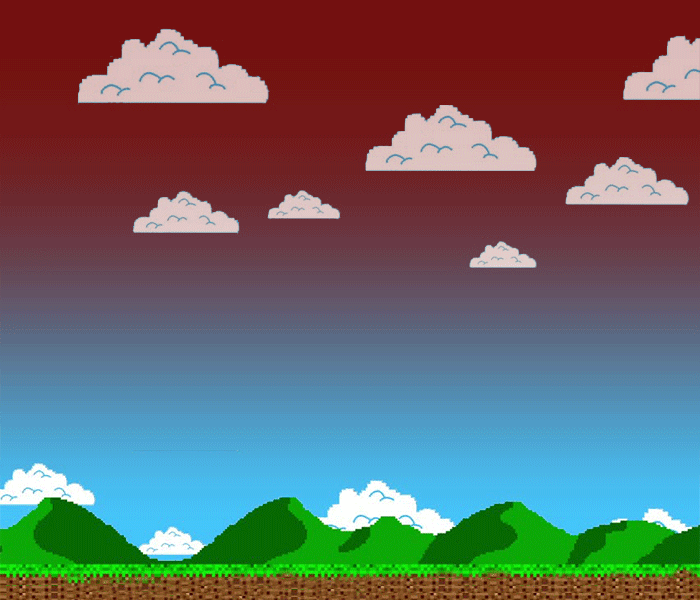
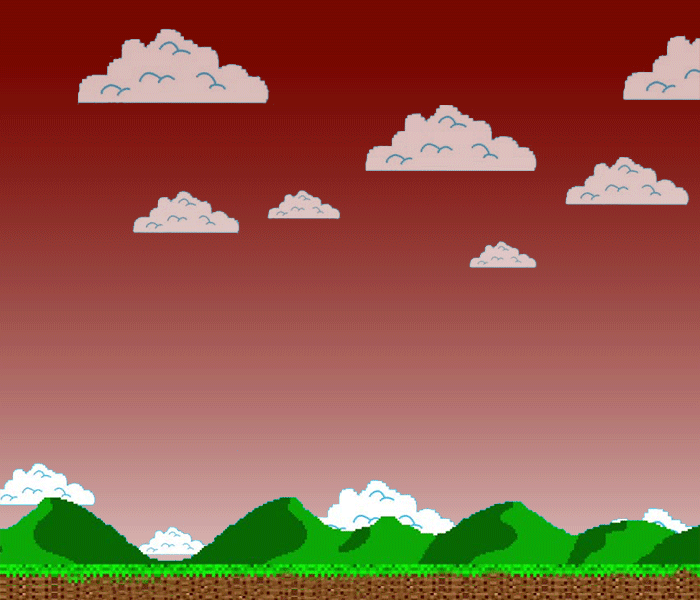
Modified game state

diff --git a/src/app/terminal/game/game.component.ts b/src/app/terminal/game/game.component.ts
@@ -1,6 +1,8 @@
 
-import { Component, AfterViewInit, ElementRef, ViewChild, Output, EventEmitter } from '@angular/core';
+import { Component, AfterViewInit, ElementRef, ViewChild, Output, EventEmitter, OnDestroy } from '@angular/core';
 import { CommunicateService} from '../../services/communicate.service';
+import { AppState } from '../../classes/app-state.enum';
+import { Subscription } from 'rxjs/subscription'
 
 declare var webkitAudioContext: any;
 
@@ -234,7 +236,7 @@ export class PlayState {
           //  this rocket again.
           this.rockets.splice(j--, 1);
           bang = true;
-          game.score += this.config.pointsPerInvader;
+          game.score += (this.config.pointsPerInvader + (this.level - 1));
           game.crowsKilled += 1;
           break;
         }
@@ -346,14 +348,20 @@ export class PlayState {
 
     //  Draw info.
     var textYpos = game.gameBounds.bottom + ((game.height - game.gameBounds.bottom) / 2) + 14 / 2;
+    var livesYpos = game.gameBounds.top - 10;
     ctx.font = "14px 'Andale Mono', Consolas, 'Courier New'";
-    ctx.fillStyle = '#f0f0f0';
-    var info = "Lives: " + game.lives;
+    ctx.fillStyle = '#0a0a0a';
+
+    var info = "Lives: ";
     ctx.textAlign = "left";
-    ctx.fillText(info, game.gameBounds.left, textYpos);
-    info = "Score: " + game.score + ", Level: " + game.level;
+    ctx.fillText(info, game.gameBounds.right - 40 - (game.lives * 25), 22);
+    for(var i = 0; i < game.lives; i++){
+      ctx.drawImage(shooterImg, game.gameBounds.right - (i * 25), 10, 25, 25);
+    }
+
+    info = "Score: " + game.score + ", Horde #: " + game.level;
     ctx.textAlign = "right";
-    ctx.fillText(info, game.gameBounds.right, textYpos);
+    ctx.fillText(info, (game.width / 2) + 90, 22);
 
     //  If we're in debug mode, draw bounds.
     if (this.config.debugMode) {
@@ -412,17 +420,19 @@ export class WelcomeState {
 
   draw(game, dt, ctx) {
 
-    //  Clear the background.
-    ctx.clearRect(0, 0, game.width, game.height);
 
     ctx.font = "30px 'Andale Mono', Consolas, 'Courier New'";
-    ctx.fillStyle = '#f0f0f0';
+    ctx.fillStyle = '#0a0a0a';
     ctx.textBaseline = "center";
     ctx.textAlign = "center";
     ctx.fillText("Crow Invaders", game.width / 2, game.height / 2 - 40);
     ctx.font = "16px 'Andale Mono', Consolas, 'Courier New'";
 
-    ctx.fillText("Press 'Space' to start.", game.width / 2, game.height / 2);
+    ctx.fillText("Move with arrow keys, fire with the space bar.", game.width / 2, game.height / 2)
+    ctx.fillText("The crows get faster and drop more eggs as you clear each horde!", game.width / 2, game.height / 2 + 25);
+  
+ 
+    ctx.fillText("Press 'Space' to start.", game.width / 2, game.height / 2  + 80);
   }
   keyDown(game, keyCode) {
     if (keyCode == 32) /*space*/ {
@@ -470,10 +480,10 @@ export class LevelIntroState {
     ctx.clearRect(0, 0, game.width, game.height);
 
     ctx.font = "32px 'Andale Mono', Consolas, 'Courier New'";
-    ctx.fillStyle = '#f0f0f0';
+    ctx.fillStyle = '#0a0a0a';
     ctx.textBaseline = "middle";
     ctx.textAlign = "center";
-    ctx.fillText("Level " + this.level, game.width / 2, game.height / 2 - 36);
+    ctx.fillText("Horde " + this.level, game.width / 2, game.height / 2 - 36);
     ctx.font = "24px 'Andale Mono', Consolas, 'Courier New'";
     ctx.fillText("Ready in " + this.countdownMessage, game.width / 2, game.height / 2);
     return;
@@ -492,7 +502,7 @@ export class GameOverState {
     ctx.clearRect(0, 0, game.width, game.height);
 
     ctx.font = "30px 'Andale Mono', Consolas, 'Courier New'";
-    ctx.fillStyle = '#f0f0f0';
+    ctx.fillStyle = '#0a0a0a';
     ctx.textBaseline = "center";
     ctx.textAlign = "center";
     ctx.fillText("Game Over!", game.width / 2, game.height / 2 - 40);
@@ -528,7 +538,7 @@ export class PauseState {
     ctx.clearRect(0, 0, game.width, game.height);
 
     ctx.font = "14px 'Andale Mono', Consolas, 'Courier New'";
-    ctx.fillStyle = '#f0f0f0';
+    ctx.fillStyle = '#0a0a0a';
     ctx.textBaseline = "middle";
     ctx.textAlign = "center";
     ctx.fillText("Paused", game.width / 2, game.height / 2);
@@ -602,12 +612,13 @@ export class Sounds {
   templateUrl: './game.component.html',
   styleUrls: ['./game.component.css']
 })
-export class GameComponent implements AfterViewInit {
+export class GameComponent implements AfterViewInit, OnDestroy {
 
 
   instructions: "Move with arrow keys, fire with the space bar. The invaders get faster and drop more bombs as you complete each level!";
 
   @ViewChild('gameCanvas') canvas: ElementRef;
+  @ViewChild('backgroundCanvas') backgroundCanvas: ElementRef;
 
   @Output()
   finalScore: EventEmitter<number> = new EventEmitter<number>();
@@ -653,18 +664,41 @@ export class GameComponent implements AfterViewInit {
   //  All sounds.
   sounds = null;
 
-  constructor(private comService: CommunicateService){
+  stateSubscription: Subscription;
 
+  constructor(private comService: CommunicateService){
+    this.stateSubscription = this.comService.appState$.subscribe((state: AppState) => {
+      if(state != AppState.game){
+        this.moveToState(new GameOverState());
+      }
+    })
   }
 
   ngAfterViewInit(){
     this.startGame();
   }
 
+  ngOnDestroy(): void {
+    //Called once, before the instance is destroyed.
+    //Add 'implements OnDestroy' to the class.
+    this.stateSubscription.unsubscribe();
+  }
+
   startGame() {
 
     this.canvas.nativeElement.width = 700;
     this.canvas.nativeElement.height = 600;
+
+
+
+    // this.backgroundCanvas.nativeElement.width = 700;
+    // this.backgroundCanvas.nativeElement.height = 600;
+    // var ctx = this.backgroundCanvas.nativeElement.getContext("2d");
+    // //  Clear the background.
+    // ctx.clearRect(0, 0, 700, 600);
+    // var bgImg = new Image();
+    // bgImg.src = "assets/backdropTransparent.png";
+    // ctx.drawImage(bgImg, 0, 0, 700, 600);
 
     //  Create the game.
     // var game = new Game();
@@ -701,9 +735,13 @@ export class GameComponent implements AfterViewInit {
     //  Set the game canvas.
     this.gameCanvas = gameCanvas;
 
+    
+
     //  Set the game width and height.
     this.width = gameCanvas.width;
     this.height = gameCanvas.height;
+
+
 
     //  Set the state game bounds.
     this.gameBounds = {

diff --git a/src/app/terminal/terminal.component.ts b/src/app/terminal/terminal.component.ts
@@ -64,8 +64,8 @@ export class TerminalComponent implements AfterViewInit, OnDestroy {
   }
 
   async ngAfterViewInit() {
-    this.addOutput(this.welcomeMessage + this.getHelpMessage, true);
-    // this.addOutput('Hi', true);
+    // this.addOutput(this.welcomeMessage + this.getHelpMessage, true);
+    this.addOutput('Hi', true);
     this.web3Subscription = this.service.web3Status$.subscribe((status: Web3LoadingStatus) => {
       console.log("Terminal: Web3Status: " + status);
       if (status == Web3LoadingStatus.complete) {
@@ -103,7 +103,11 @@ export class TerminalComponent implements AfterViewInit, OnDestroy {
 
       this.addCommand(input);
       const output = await this.handleCommandAsync(input);
-      this.addOutput(output, output != null);
+      if(output == null){
+        this.addOutput('');
+      }else{
+        this.addOutput(output, true);
+      }
     }
   }
 
@@ -139,8 +143,10 @@ export class TerminalComponent implements AfterViewInit, OnDestroy {
           //   // }
           // } else {
             this.addOutput(this.loadingCrowsMessage);
-            this.shootingCrows = true;
-            this.comService.setState(AppState.game);
+            setTimeout(() => {
+              this.shootingCrows = true;
+              this.comService.setState(AppState.game);
+            }, 3000);
             output = null;
           // }
           break;

diff --git a/src/app/app.component.ts b/src/app/app.component.ts
@@ -19,6 +19,7 @@ export class AppComponent implements OnInit, OnDestroy {
 
   terminalOpen = false;
   bounceIn = false;
+  bounceInTerminal = false;
   terminalSubscription: Subscription;
 
   constructor(private comService: CommunicateService) {
@@ -38,6 +39,7 @@ export class AppComponent implements OnInit, OnDestroy {
       } else {
         if(this.terminalOpen){
           this.bounceIn = true;
+          this.bounceInTerminal = false;
           this.terminalOpen = false;
         }
       }
@@ -73,6 +75,9 @@ export class AppComponent implements OnInit, OnDestroy {
 
   openTerminal() {
     this.comService.setState(AppState.terminal);
+    setTimeout(() => {
+      this.bounceInTerminal = true;
+    }, 500);
     localStorage.setItem('hasOpened', 'true');
   }
 

diff --git a/src/app/terminal/game/game.component.css b/src/app/terminal/game/game.component.css
@@ -1,7 +1,24 @@
 #gameCanvas {
     /* background-color:rgba(0,0,0,0.8); */
-    background-image: url('/assets/backdrop.png')
+    background-image: url('/assets/backdropBlue.png');
+    /* background: none; */
 }
+
+#gameCanvas, #backgroundCanvas {
+    position: fixed;
+}
+/* #background{
+
+    background-image: url('/assets/backdrop.png');
+    content: "";
+    opacity: 0.5;
+    top: 0;
+    left: 0;
+    bottom: 0;
+    right: 0;
+    position: absolute;
+    z-index: -1;   
+  } */
 
 #muteLink {
     position: absolute;
@@ -13,3 +30,6 @@
 #gamecontainer {
     height: 600px;
 }
+
+  
+  

diff --git a/src/app/terminal/game/game.component.html b/src/app/terminal/game/game.component.html
@@ -1,5 +1,7 @@
 <div id="gamecontainer">
-  <canvas #gameCanvas id="gameCanvas"></canvas>
+    <!-- <div id="background"></div> -->
+    <!-- <canvas #backgroundCanvas id="backgroundCanvas"></canvas> -->
+    <canvas #gameCanvas id="gameCanvas"></canvas>
   <a id="muteLink" *ngIf="sounds != null" href="#" (click)="toggleMute()">
       <mat-icon *ngIf="sounds.mute"><i class="material-icons">volume_off</i></mat-icon>
       <mat-icon *ngIf="!sounds.mute"><i class="material-icons">volume_ups</i></mat-icon>

diff --git a/src/app/app.component.html b/src/app/app.component.html
@@ -20,7 +20,7 @@
 
 
 <!-- Console -->
-<app-terminal id="terminal-container" *ngIf="terminalOpen" class="animated bounceInUp">
+<app-terminal id="terminal-container" *ngIf="terminalOpen && bounceInTerminal" class="animated zoomIn">
 </app-terminal>
 
 
